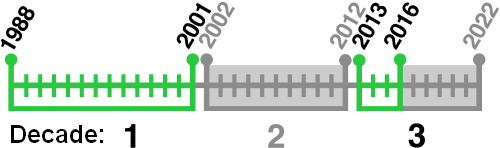
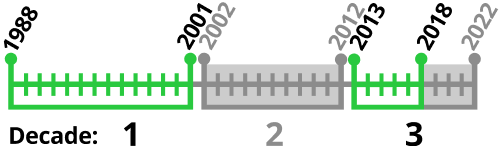
new timeline images, further text changes

diff --git a/build/index.html b/build/index.html
@@ -277,7 +277,7 @@
                     <div role="tabpanel" class="tab-pane" id="learnMoreTabPane">
                         <h3>Learn More</h3>
                         <h3 style="border-bottom: 1px solid rgba(0,0,0,0.4); padding: 15px 0 8px 0; margin-bottom: 8px;display:inline-block;">Evaluating Decadal Changes in Groundwater Quality</h3>
-                        <p>Groundwater quality data were collected from 5,000 wells between 1988-2001 (first sampling event) by the U.S. Geological Survey&#39;s National Water-Quality Assessment Project. Samples are collected in groups of 20-30 wells with similar characteristics called networks.  About 1,500 of these wells in 67 networks were sampled about 10 years later between 2002-2012 (second sampling event) to evaluate decadal changes in groundwater quality. Between 2012 and 2018 (third sampling event), a subset of these networks has been sampled again, allowing additional results to be displayed on the web page: Decadal changes in groundwater quality. This is the third iteration of data added to the website, so this data release is referred to herein as Version 3.0. With the additional data, it is possible to evaluate changes in water quality between the 2nd and 3rd sampling event for 21 additional networks (56 total), changes in water quality between the 1st and 3rd sampling event for 18 additional networks (45 total), and changes across all 3 sampling events for 18 additional networks (45 total). A total of 83 networks have been sampled at least twice. Samples were obtained from monitoring wells, domestic-supply wells, and some public-supply wells before any treatment on the system.</p>
+                        <p>Groundwater quality data were collected from 5,000 wells between 1988-2001 (first sampling event) by the U.S. Geological Survey&#39;s National Water-Quality Assessment Project. Samples are collected in groups of 20-30 wells with similar characteristics called networks.  About 1,500 of these wells in 67 networks were sampled about 10 years later between 2002-2012 (second sampling event) to evaluate decadal changes in groundwater quality. Between 2012 and 2018 (third sampling event), a subset of these networks has been sampled again, allowing additional results to be displayed on the web page: Decadal changes in groundwater quality. This is the fourth iteration of data added to the website, so this data release is referred to herein as Version 3.0. With the additional data, it is possible to evaluate changes in water quality between the 2nd and 3rd sampling event for 21 additional networks (56 total), changes in water quality between the 1st and 3rd sampling event for 18 additional networks (45 total), and changes across all 3 sampling events for 18 additional networks (45 total). A total of 83 networks have been sampled at least twice. Samples were obtained from monitoring wells, domestic-supply wells, and some public-supply wells before any treatment on the system.</p>
                         <p>Groundwater samples used to evaluate decadal change were collected from networks of wells with similar characteristics. Some networks, consisting of domestic or public supply wells, were used to assess changes in the quality of groundwater used for drinking water supply. Other networks, consisting of monitoring wells, assessed changes in the quality of shallow groundwater underlying key land use types such as agricultural or urban lands. Networks were chosen based on geographic distribution across the Nation and to represent the most important water-supply aquifers and specific land-use types.</p>
                         <br/><br/>
                         <h3 style="border-bottom: 1px solid rgba(0,0,0,0.4); padding: 15px 0 8px 0; margin-bottom: 8px;display:inline-block;">Decadal changes in groundwater quality were assessed for these constituents:</h3>
@@ -892,7 +892,7 @@
                             For the two constituents included in the analysis based on regional importance, orthophosphate does not have a health benchmark but is important for ecological health of surface-water systems; 1,2-Dibromo-3-chloropropane (DBCP) was not widely used nationwide, but it is important in regions where it was used in the past. Radium, radon, and gross alpha (&alpha;) activity met the criteria for analysis, but do not have sufficient data for analysis; thus, they are not included in the mapping tool.
                             <br>
                             <br>
-                            Because of changes in sampling design and laboratory methods, results for pesticides, VOCs, and orthophosphate are not included in comparisons beyond the second decade; however, the results from previous pairs of samples for these compounds are still displayed. Thus comparisons of changes between the first and second decade display results for 27 constituents but, with the addition of lithium, comparisons between the second and third decade display results for 14 constituents.
+                            Because of changes in sampling design and laboratory methods, results for pesticides, VOCs, and orthophosphate are not included in comparisons beyond the second decade; however, the results from previous pairs of samples for these compounds are still displayed. Thus comparisons of changes between the first and second decade display results for 26 constituents but, with the addition of lithium, comparisons between the second and third decade display results for 14 constituents.
                             <br>
                             <br>
                             Benchmarks used to prioritize the constituents were: EPA maximum contaminant levels (MCLs) <a class="showReferencedCitesEPA">(U.S. Environmental Protection Agency, 2012)</a>, USGS Health-Based Screening Levels (HBSLs) <a class="showReferencedCitesToccalino2014b">(Toccalino and others, 2014b)</a>, and nonregulatory SMCLs <a class="showReferencedCitesEPA">(U.S. Environmental Protection Agency, 2012)</a>. Of these benchmarks, only MCLs are legally enforceable (regulatory) drinking-water standards; all but SMCLs are human-health benchmarks. For more information about these benchmarks, <a id="showFAQ15">click here</a>. For a listing of the 27 constituents selected for analysis and the reason they were selected, <a id="mclOnTopTechPane">click here</a>.

diff --git a/src/index.html b/src/index.html
@@ -309,7 +309,7 @@
                     <div role="tabpanel" class="tab-pane" id="learnMoreTabPane">
                         <h3>Learn More</h3>
                         <h3 style="border-bottom: 1px solid rgba(0,0,0,0.4); padding: 15px 0 8px 0; margin-bottom: 8px;display:inline-block;">Evaluating Decadal Changes in Groundwater Quality</h3>
-                        <p>Groundwater quality data were collected from 5,000 wells between 1988-2001 (first sampling event) by the U.S. Geological Survey&#39;s National Water-Quality Assessment Project. Samples are collected in groups of 20-30 wells with similar characteristics called networks.  About 1,500 of these wells in 67 networks were sampled about 10 years later between 2002-2012 (second sampling event) to evaluate decadal changes in groundwater quality. Between 2012 and 2018 (third sampling event), a subset of these networks has been sampled again, allowing additional results to be displayed on the web page: Decadal changes in groundwater quality. This is the third iteration of data added to the website, so this data release is referred to herein as Version 3.0. With the additional data, it is possible to evaluate changes in water quality between the 2nd and 3rd sampling event for 21 additional networks (56 total), changes in water quality between the 1st and 3rd sampling event for 18 additional networks (45 total), and changes across all 3 sampling events for 18 additional networks (45 total). A total of 83 networks have been sampled at least twice. Samples were obtained from monitoring wells, domestic-supply wells, and some public-supply wells before any treatment on the system.</p>
+                        <p>Groundwater quality data were collected from 5,000 wells between 1988-2001 (first sampling event) by the U.S. Geological Survey&#39;s National Water-Quality Assessment Project. Samples are collected in groups of 20-30 wells with similar characteristics called networks.  About 1,500 of these wells in 67 networks were sampled about 10 years later between 2002-2012 (second sampling event) to evaluate decadal changes in groundwater quality. Between 2012 and 2018 (third sampling event), a subset of these networks has been sampled again, allowing additional results to be displayed on the web page: Decadal changes in groundwater quality. This is the fourth iteration of data added to the website, so this data release is referred to herein as Version 3.0. With the additional data, it is possible to evaluate changes in water quality between the 2nd and 3rd sampling event for 21 additional networks (56 total), changes in water quality between the 1st and 3rd sampling event for 18 additional networks (45 total), and changes across all 3 sampling events for 18 additional networks (45 total). A total of 83 networks have been sampled at least twice. Samples were obtained from monitoring wells, domestic-supply wells, and some public-supply wells before any treatment on the system.</p>
                         <p>Groundwater samples used to evaluate decadal change were collected from networks of wells with similar characteristics. Some networks, consisting of domestic or public supply wells, were used to assess changes in the quality of groundwater used for drinking water supply. Other networks, consisting of monitoring wells, assessed changes in the quality of shallow groundwater underlying key land use types such as agricultural or urban lands. Networks were chosen based on geographic distribution across the Nation and to represent the most important water-supply aquifers and specific land-use types.</p>
                         <br/><br/>
                         <h3 style="border-bottom: 1px solid rgba(0,0,0,0.4); padding: 15px 0 8px 0; margin-bottom: 8px;display:inline-block;">Decadal changes in groundwater quality were assessed for these constituents:</h3>
@@ -924,7 +924,7 @@
                             For the two constituents included in the analysis based on regional importance, orthophosphate does not have a health benchmark but is important for ecological health of surface-water systems; 1,2-Dibromo-3-chloropropane (DBCP) was not widely used nationwide, but it is important in regions where it was used in the past. Radium, radon, and gross alpha (&alpha;) activity met the criteria for analysis, but do not have sufficient data for analysis; thus, they are not included in the mapping tool.
                             <br>
                             <br>
-                            Because of changes in sampling design and laboratory methods, results for pesticides, VOCs, and orthophosphate are not included in comparisons beyond the second decade; however, the results from previous pairs of samples for these compounds are still displayed. Thus comparisons of changes between the first and second decade display results for 27 constituents but, with the addition of lithium, comparisons between the second and third decade display results for 14 constituents.
+                            Because of changes in sampling design and laboratory methods, results for pesticides, VOCs, and orthophosphate are not included in comparisons beyond the second decade; however, the results from previous pairs of samples for these compounds are still displayed. Thus comparisons of changes between the first and second decade display results for 26 constituents but, with the addition of lithium, comparisons between the second and third decade display results for 14 constituents.
                             <br>
                             <br>
                             Benchmarks used to prioritize the constituents were: EPA maximum contaminant levels (MCLs) <a class="showReferencedCitesEPA">(U.S. Environmental Protection Agency, 2012)</a>, USGS Health-Based Screening Levels (HBSLs) <a class="showReferencedCitesToccalino2014b">(Toccalino and others, 2014b)</a>, and nonregulatory SMCLs <a class="showReferencedCitesEPA">(U.S. Environmental Protection Agency, 2012)</a>. Of these benchmarks, only MCLs are legally enforceable (regulatory) drinking-water standards; all but SMCLs are human-health benchmarks. For more information about these benchmarks, <a id="showFAQ15">click here</a>. For a listing of the 27 constituents selected for analysis and the reason they were selected, <a id="mclOnTopTechPane">click here</a>.
